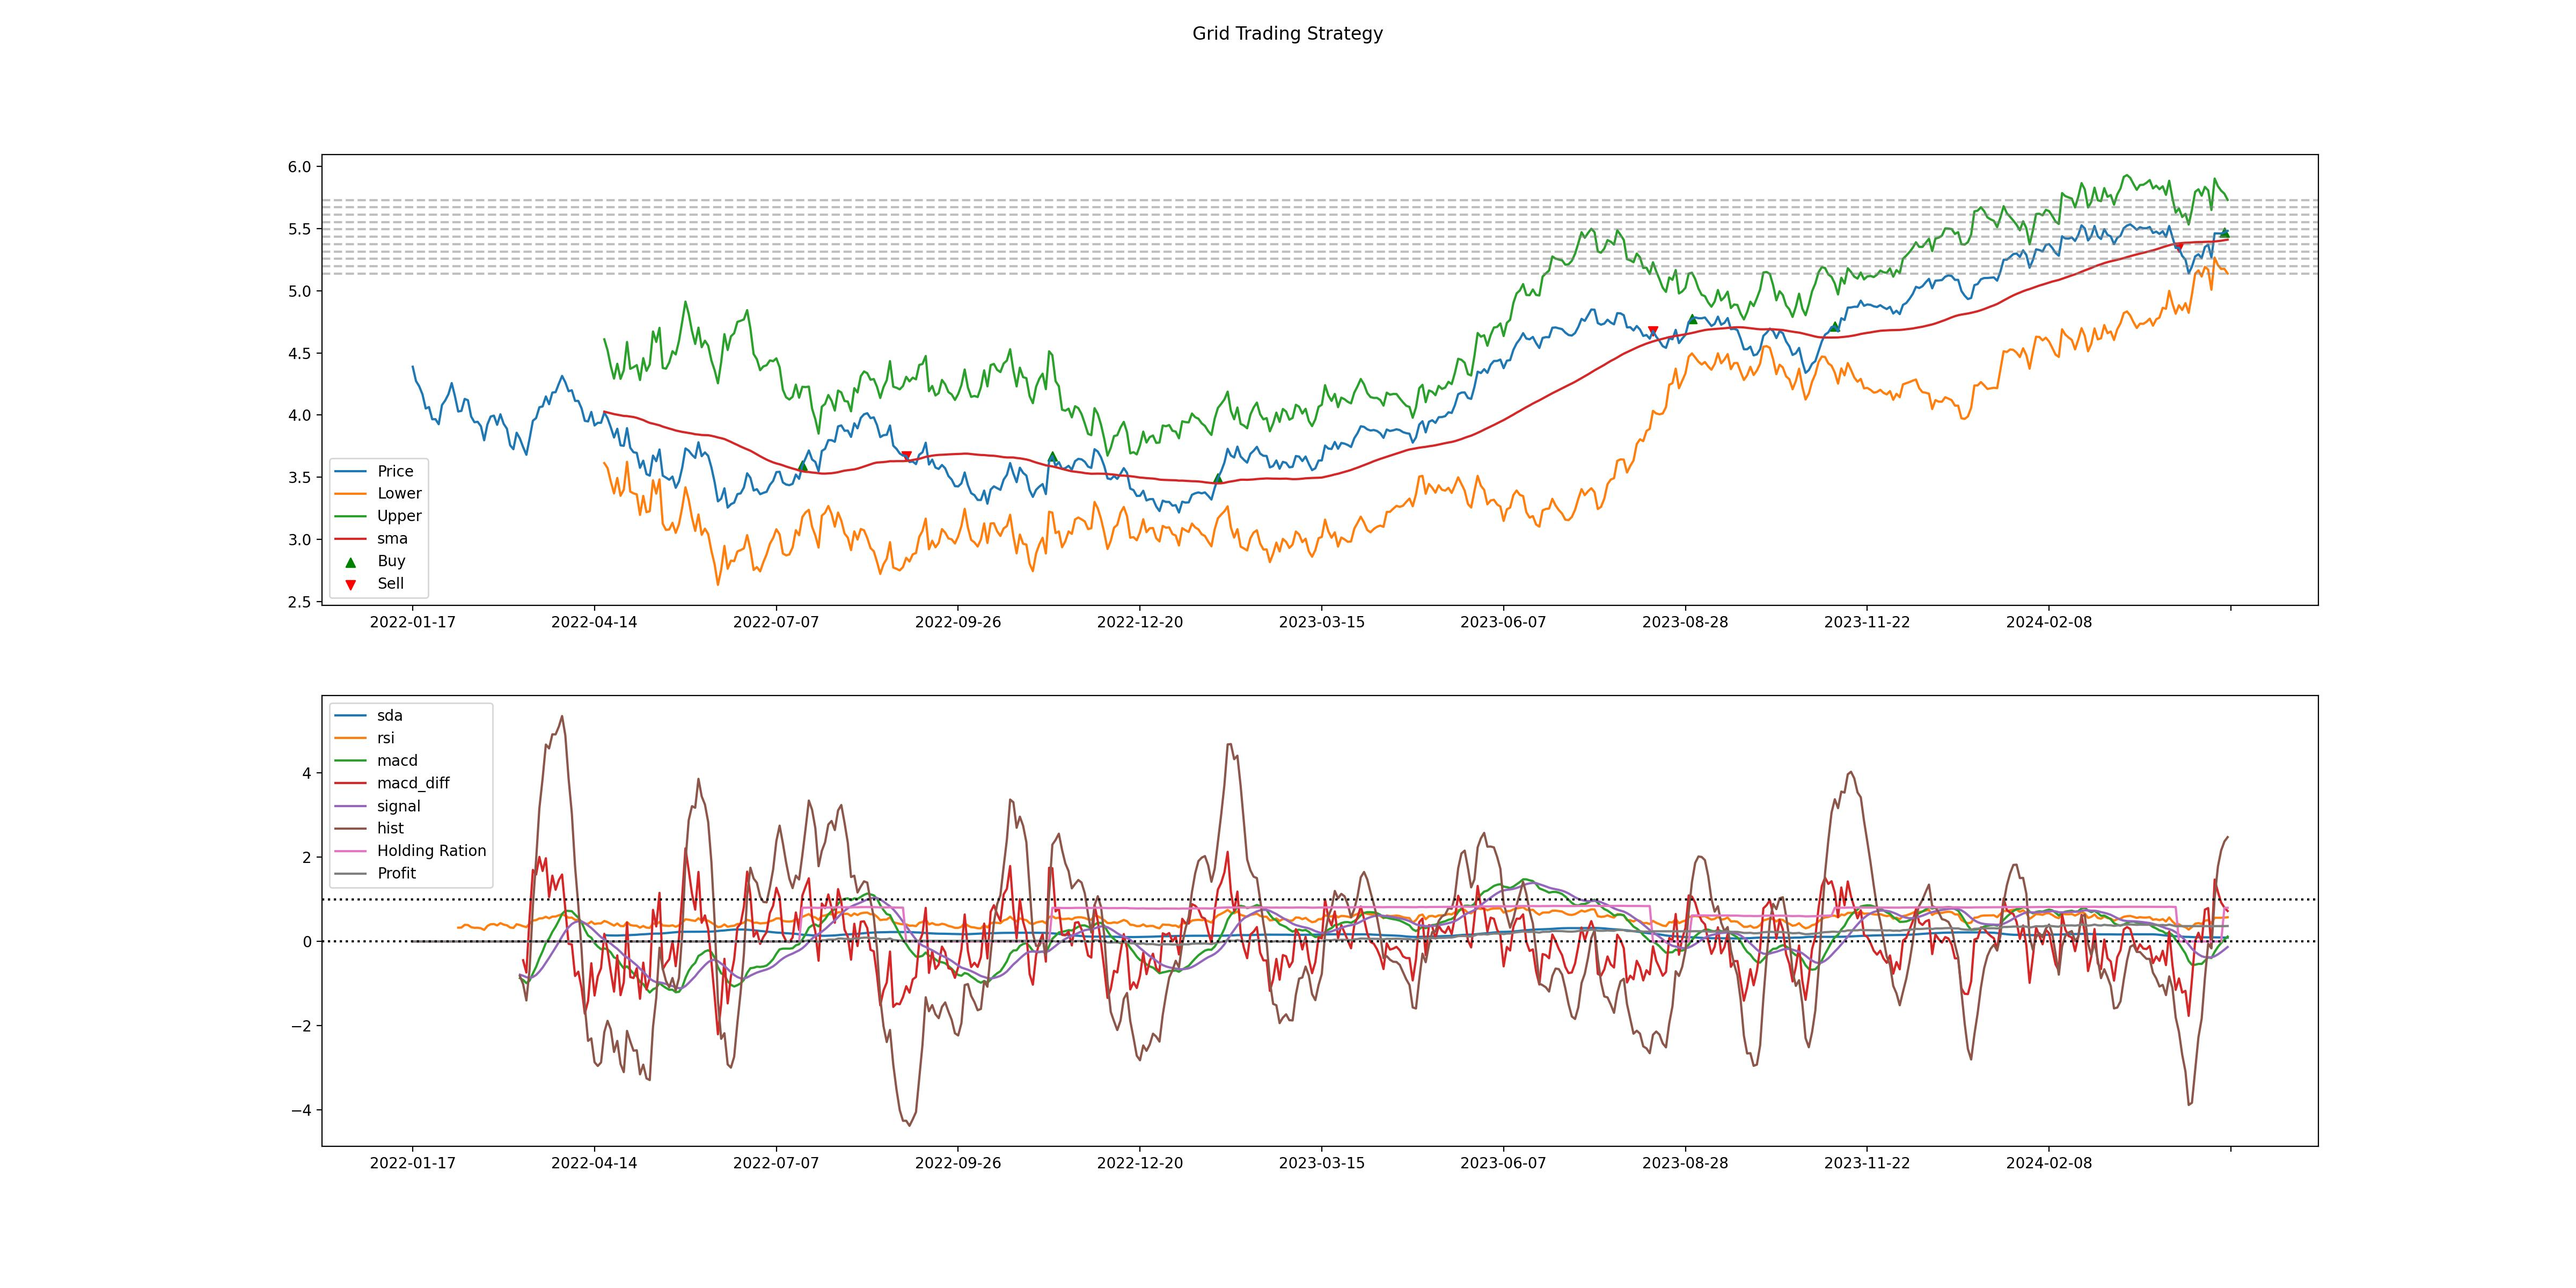
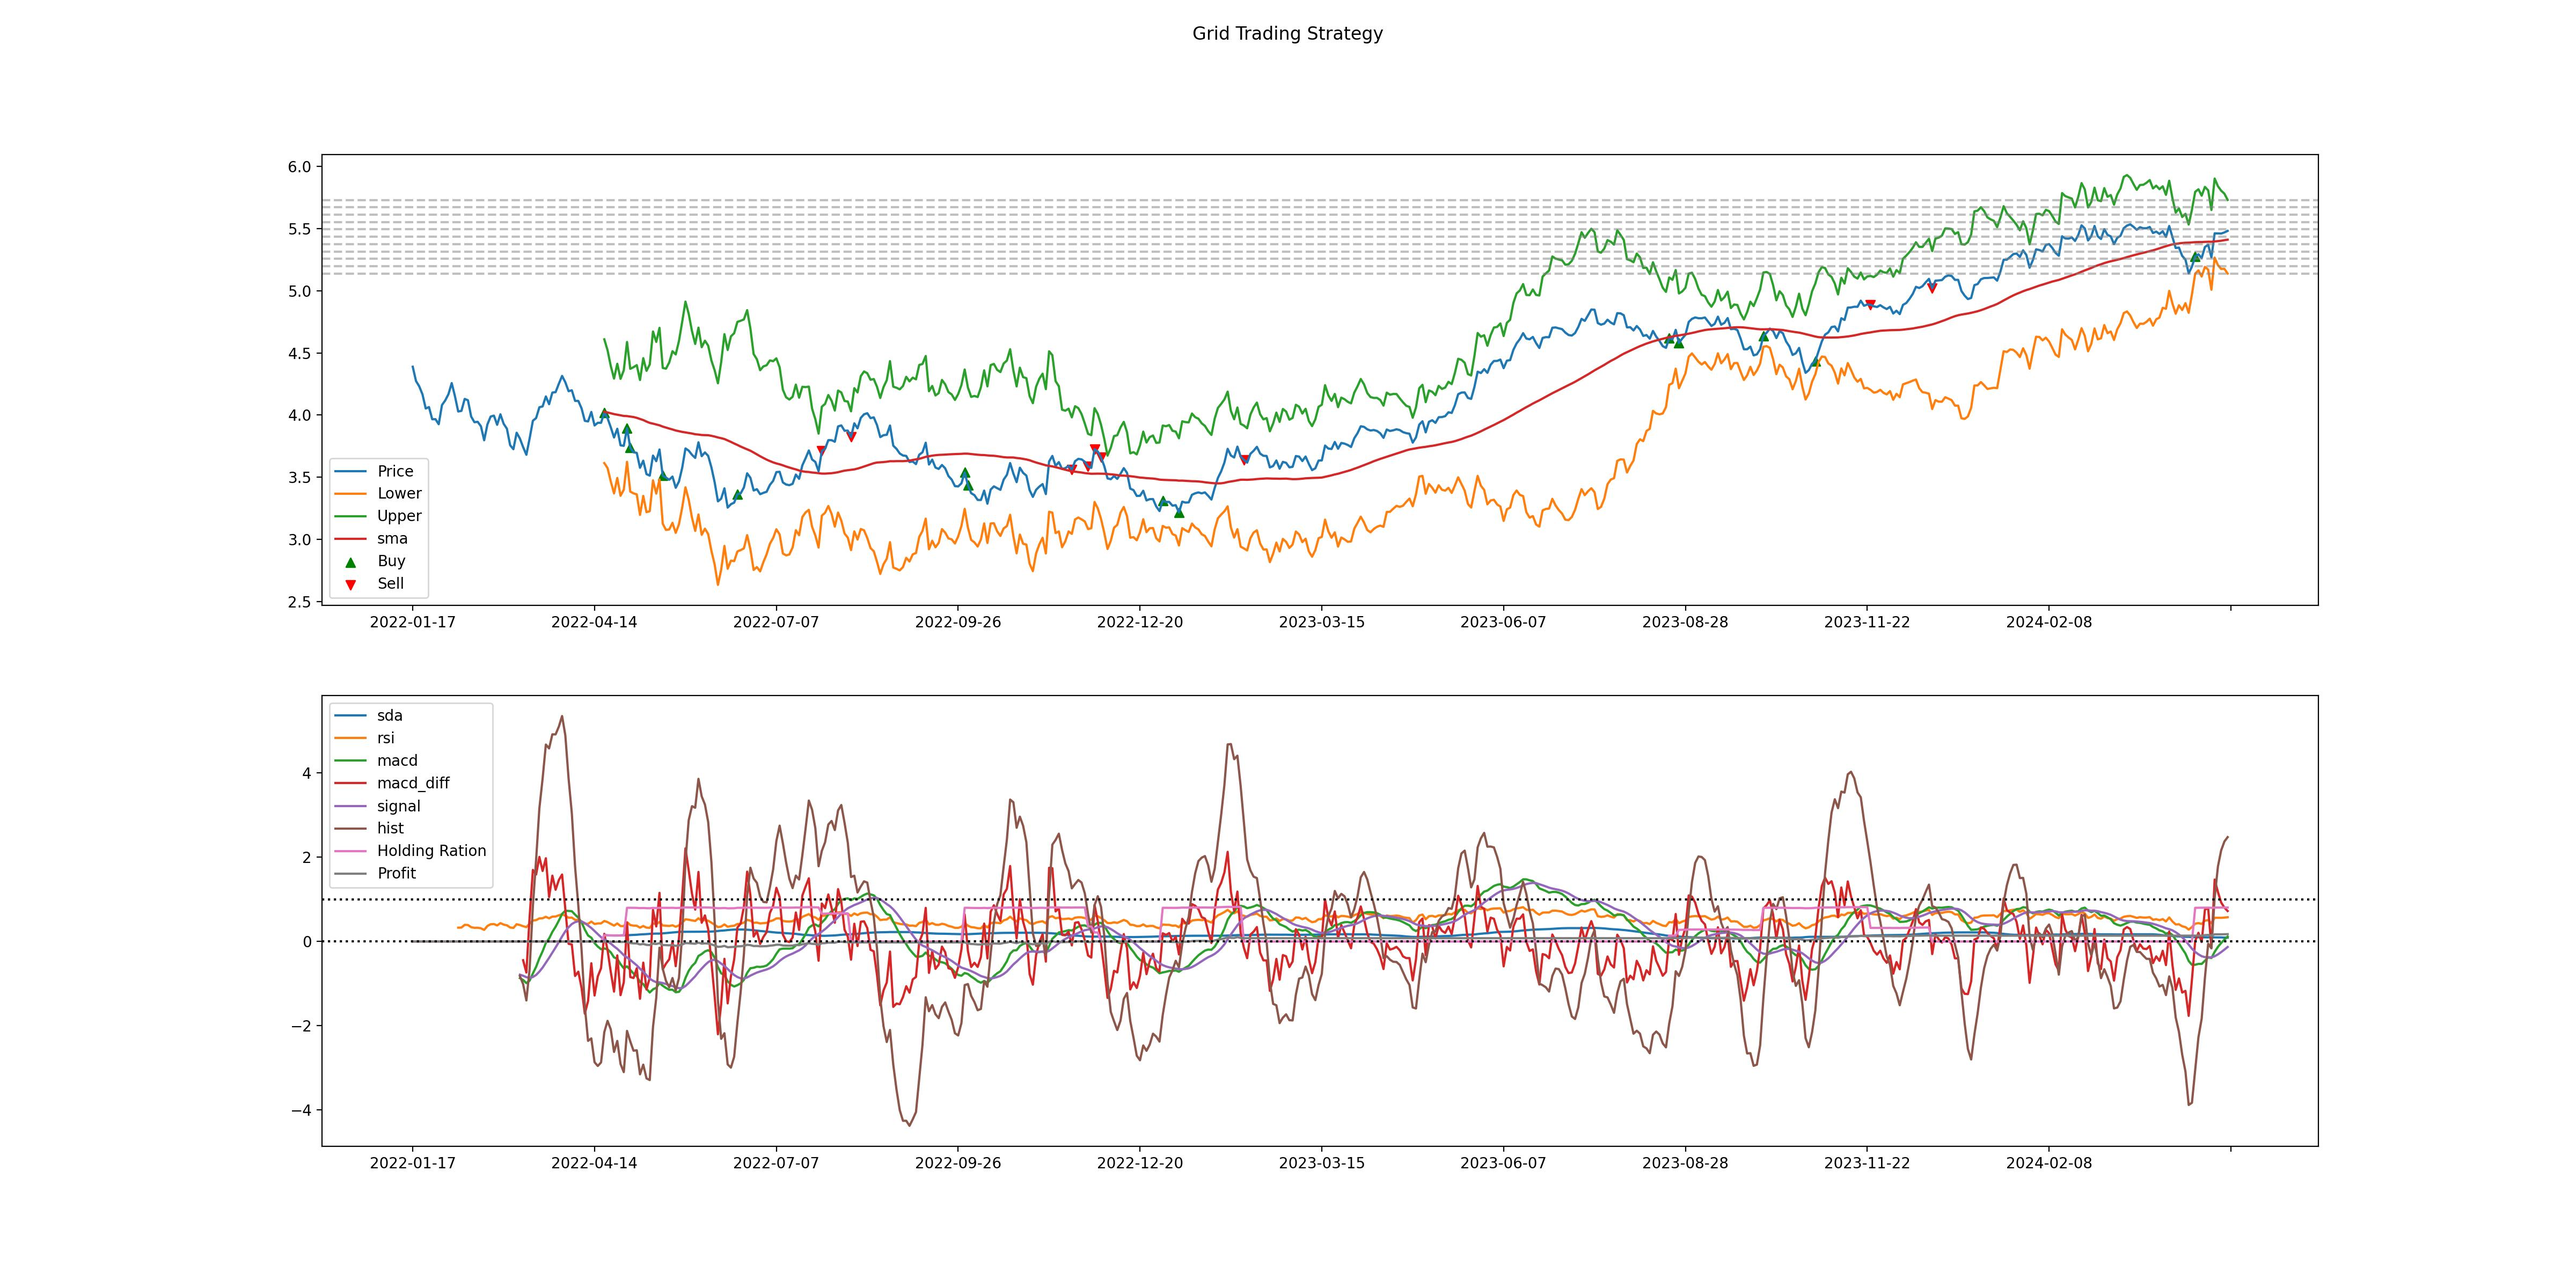
modify macd_diff

Changed region(s): [[0.4375, 0.6875, 0.875, 0.75], [0.25, 0.6875, 0.4062, 0.75], [0.4062, 0.3438, 0.4375, 0.375]]

diff --git a/ayaa/strategy/gridl_strategy.py b/ayaa/strategy/gridl_strategy.py
@@ -1,0 +1,287 @@
+import pandas as pd
+import numpy as np
+import matplotlib.pyplot as plt
+import matplotlib.ticker as ticker
+from ayaa.strategy.finance_mgr import FinanceMgr
+from ayaa.utils.perf import calculate_bollinger_bands, calculate_perf
+
+class GridTradingStrategy:
+    def __init__(self,
+        spara,
+        grid_num=15,
+        lower_bound=25,
+        upper_bound=35,
+        order_percent=0.08,
+        max_position=1000):
+        """
+        网格交易策略
+        """
+        self.data = None
+        self.positions = []  # 记录所有交易
+        self.holding_rations = []  # 当前持有数量
+        self.spara = spara
+        
+        # 策略参数
+        self.grid_params = {
+            'grid_num': grid_num,        # 网格数量
+            'lower_bound': lower_bound,   # 价格下限
+            'upper_bound': upper_bound,   # 价格上限
+            'order_percent': order_percent,  # 每格交易资金比例
+            'max_position': max_position # 最大持仓限制
+        }
+        
+        # 生成网格区间
+        self.generate_grid_levels()
+        self.last_grid = 0
+        self.last_trade_time = 0
+        self.last_macd = 0
+        self.last_stash_quantity = 0
+   
+    def set_financer(self, financer):
+        self.financer = financer
+
+    def reset_state(self):
+        self.positions = []  # clear trade records
+        self.holding_rations = []
+        self.data = None
+        self.financer.reset()
+
+    def prepare_data(self, data):
+        ''' data包含一段时间内的基础数据，如date、close等其他所需
+        data:[[date price], [date price]...]'''
+        calculate_perf(data, window=self.spara['window'], price_col='close', fill_na=True)
+        # 计算上下轨
+        data['min_width'] = data['sma'] * self.spara['min_width'] / self.spara['num_std']
+        data['max_width'] = data['sma'] * self.spara['max_width'] / self.spara['num_std']
+        data['fluct'] = data[['max_width', 'sda']].min(axis=1)
+        data['fluct'] = data[['min_width', 'fluct']].max(axis=1)
+        #fluct = data['fluct']
+        fluct = data['sda']
+     
+        data['upper_band'] = data['sma'] + (fluct*self.spara['num_std']) + data['sbc5']*self.spara['sbc5']
+        data['lower_band'] = data['sma'] - (fluct*self.spara['num_std']) + data['sbc5']*self.spara['sbc5']
+
+
+    def build_strategy(self, data):
+        ''' data为要计算交易的当日数据，包括date、close以及策略所需的指标 '''
+        self.grid_params['lower_bound'] = data['lower_band']
+        self.grid_params['upper_bound'] = data['upper_band']
+        self.grid_params['grid_num'] = self.spara['grid_num']
+        self.grid_params['order_percent'] = self.spara['order_percent']
+        self.generate_grid_levels()
+
+    def generate_grid_levels(self):
+        """生成网格价格区间"""
+        price_range = np.linspace(
+            self.grid_params['lower_bound'],
+            self.grid_params['upper_bound'],
+            self.grid_params['grid_num'] + 1
+        )
+        self.grid_levels = price_range.tolist()
+        #print(f"生成网格价格区间：{self.grid_levels}")
+
+    def reset_grid_level(self, lower, upper, grid_num=None):
+        self.grid_params['lower_bound'] = lower
+        self.grid_params['upper_bound'] = upper
+        self.grid_params['grid_num'] = grid_num if grid_num else self.grid_params['grid_num'] 
+        self.generate_grid_levels()
+        
+    
+    def calculate_order_size(self, price):
+        """计算单次交易数量"""
+        return (self.financer.init_cash * self.grid_params['order_percent']) / price
+
+    def execute_strategy(self, current_date, current_price, current_data):
+        """执行策略"""
+        quantity = 0
+        current_grid = np.digitize(current_price, self.grid_levels)
+        self.last_trade_time += 1
+        
+        if current_grid != self.last_grid:
+            self.last_grid = current_grid
+            self.last_trade_time = 0
+
+            # 检查每个网格线
+            for level in self.grid_levels:
+                # 买入条件：价格低于网格线且未持仓
+                if current_price <= level:
+                    order_qty = self.calculate_order_size(current_price)
+                    quantity += order_qty
+                # 卖出条件：价格高于网格线且有持仓
+                if current_price >= level:
+                    order_qty = self.calculate_order_size(current_price)
+                    quantity -= order_qty
+
+        if self.last_macd < 0 and current_data['macd_diff'] >= 0:
+            if self.last_stash_quantity > 0:
+                quantity += self.last_stash_quantity
+                self.last_stash_quantity = 0
+            else:
+                self.last_stash_quantity = 0
+        elif self.last_macd > 0 and current_data['macd_diff'] <= 0:
+            if self.last_stash_quantity < 0:
+                quantity += self.last_stash_quantity
+                self.last_stash_quantity = 0
+            else:
+                self.last_stash_quantity = 0
+        else:
+            self.last_stash_quantity += quantity
+            quantity = 0
+
+        self.last_macd = current_data['macd_diff']
+
+        real_quantity = 0
+        stype = ''
+        if quantity > 1:
+            real_quantity = self.financer.buy(current_date, current_price, abs(quantity))
+            stype = 'BUY'
+        if quantity < -1:
+            real_quantity = self.financer.sell(current_date, current_price, abs(quantity))
+            stype = 'SELL'
+        if real_quantity > 1:
+            # print(f'date : {current_date} price : {current_price} quantity  : {real_quantity} type  : {stype}')
+            self.positions.append({
+                'date': current_date,
+                'price': current_price,
+                'quantity' : real_quantity,
+                'type' : stype,
+            })
+
+    def backtest(self, symbol, data):
+        self.symbol = symbol
+        self.data = data
+        self.prepare_data(data)
+        for idx, row in data.iterrows():
+            self.build_strategy(row)
+            #self.reset_grid_level(self.ub.iloc[idx]['lower_band'], self.ub.iloc[idx]['upper_band']) 
+            self.execute_strategy(row['date'], row['close'], row)
+            self.holding_rations.append({'date':row['date'],
+                                         'ration':self.financer.get_holding_ration(row['close']),
+                                         'profit':self.financer.get_profit(row['close']) })
+
+    def backtest_results(self, printf = False):
+        """回测结果分析"""
+        # 计算最终资产
+        final_value = self.financer.get_total_value(self.data['close'].iloc[-1])
+        total_return = self.financer.get_profit(self.data['close'].iloc[-1])
+        
+        # 统计交易数据
+        trades = pd.DataFrame(self.positions)
+        # win_trades = trades[trades['type'] == 'SELL']
+
+        if printf: 
+            print("\n========== 回测结果 ==========")
+            print(f"初始资金: {self.financer.init_cash:.2f}")
+            print(f"最终资产: {final_value:.2f}")
+            print(f"总收益率: {total_return*100:.2f}%")
+            print(f"最终持仓: {self.financer.total_holding:.2f}")
+            print(f"总交易次数: {len(trades)}/{len(self.data)}")
+            # print(f"买卖比例: {len(win_trades)/len(trades):.2%}")
+            print(f"sprice: {self.data['close'].iloc[0]}")
+            print(f"eprice: {self.data['close'].iloc[-1]}")
+  
+        res = {
+            "init_cash" : self.financer.init_cash,
+            "final_cash" : final_value,
+            "profit" : total_return*100,
+            "holding" : self.financer.total_holding,
+            "trade_times" : f'{len(trades)}/{len(self.data)}',
+            # "sell_buy" : len(win_trades)/len(trades),
+            "sprice" : self.data['close'].iloc[0],
+            "eprice" : self.data['close'].iloc[-1],
+        }
+  
+        return trades, res
+    
+    def visualize_strategy(self):
+        """可视化策略执行"""
+        fig, (ax1, ax2) = plt.subplots(2)
+        fig.set_size_inches(24,12)
+        # plt.figure(figsize=(24,12))
+        ax1.plot(self.data['date'], self.data['close'], label='Price')
+        ax1.plot(self.data['date'], self.data['lower_band'], label='Lower')
+        ax1.plot(self.data['date'], self.data['upper_band'], label='Upper')
+        ax1.plot(self.data['date'], self.data['sma'], label='sma')
+        ax2.plot(self.data['date'], self.data['sda'], label='sda')
+        ax2.plot(self.data['date'], self.data['rsi'], label='rsi')
+        ax2.plot(self.data['date'], self.data['macd']*10, label='macd')
+        ax2.plot(self.data['date'], self.data['macd_diff']*100, label='macd_diff')
+        ax2.plot(self.data['date'], self.data['signal']*10, label='signal')
+        ax2.plot(self.data['date'], self.data['hist']*100, label='hist')
+        # plt.plot(self.data['date'], self.data['hist_diff']*10, label='hist_diff')
+
+        ax2.plot([i['date'] for i in self.holding_rations], [i['ration'] for i in self.holding_rations], label='Holding Ration')
+        ax2.plot([i['date'] for i in self.holding_rations], [i['profit'] for i in self.holding_rations], label='Profit')
+        ax2.axhline(y=0, color="black", linestyle=":")
+        ax2.axhline(y=1, color="black", linestyle=":")
+        
+        # 绘制买卖点
+        buys = [t for t in self.positions if t['type'] == 'BUY']
+        sells = [t for t in self.positions if t['type'] == 'SELL']
+        
+        ax1.scatter(
+            [b['date'] for b in buys],
+            [b['price'] for b in buys],
+            color='green', marker='^', label='Buy'
+        )
+        ax1.scatter(
+            [s['date'] for s in sells],
+            [s['price'] for s in sells],
+            color='red', marker='v', label='Sell'
+        )
+        
+        # 绘制网格线
+        for level in self.grid_levels:
+            ax1.axhline(y=level, color='gray', linestyle='--', alpha=0.5)
+            
+        fig.suptitle('Grid Trading Strategy')
+        # fig.legend()
+        ax1.xaxis.set_major_locator(ticker.MultipleLocator(len(self.data)/10))
+        ax1.legend()
+
+        # ax2.title('Grid Trading Strategy')
+        ax2.xaxis.set_major_locator(ticker.MultipleLocator(len(self.data)/10))
+        ax2.legend()
+        fig.savefig(f'misc/{self.symbol}.jpg', dpi = 200)
+        # plt.show()
+
+# 使用示例
+if __name__ == "__main__":
+    # 加载示例数据（需替换为真实数据）
+    # 设置随机种子（确保结果可重复）
+    #np.random.seed(0)
+    # 生成日期（假设从2023-10-01开始）
+    length = 200
+    dates = pd.date_range(start="2023-10-01", periods=length)
+    # 生成价格数据（模拟股价波动）
+    base_price = 30.0  # 初始价格
+    #price_changes = np.random.normal(0, 0.051, length) + 1  # 正态分布随机波动（均值为0，标准差为2）
+    #price = np.round(base_price * price_changes.cumprod(), 2)  # 累积波动并保留两位小数
+    price_changes = np.random.randn(200) * 2  # 正态分布随机波动（均值为0，标准差为2）
+    price = np.round(base_price + price_changes.cumsum(), 2)  # 累积波动并保留两位小数
+    # 创建DataFrame
+    data = pd.DataFrame({
+        "date": dates,
+        "close": price
+    })
+    print(data)
+
+    #data = pd.read_csv('stock_data.csv', index_col='date', parse_dates=True)
+    
+    # 初始化策略
+    strategy = GridTradingStrategy(grid_num=10, lower_bound=25, upper_bound=35, order_percent=0.08, max_position=10000)
+    buy_fee = { 0 : 0.0015, 10000 : 0.001 }
+    sell_fee = { 0 : 0.015, 7 : 0.005, 30 : 0}
+    mgr_fee = 0
+    fee_config = (buy_fee, sell_fee, mgr_fee)
+    financer = FinanceMgr(init_cash=100000, buy_max_fee=0.001, sell_max_fee=0.000, max_holding_ration=0.8, fee_config=fee_config)
+    strategy.set_financer(financer)
+    # 执行回测
+    strategy.backtest(data)
+    trades, res = strategy.backtest_results()
+    strategy.visualize_strategy()
+    
+    # 输出交易记录
+    print("\n前5笔交易记录：")
+    #print(trades.head())
+    print(trades)
